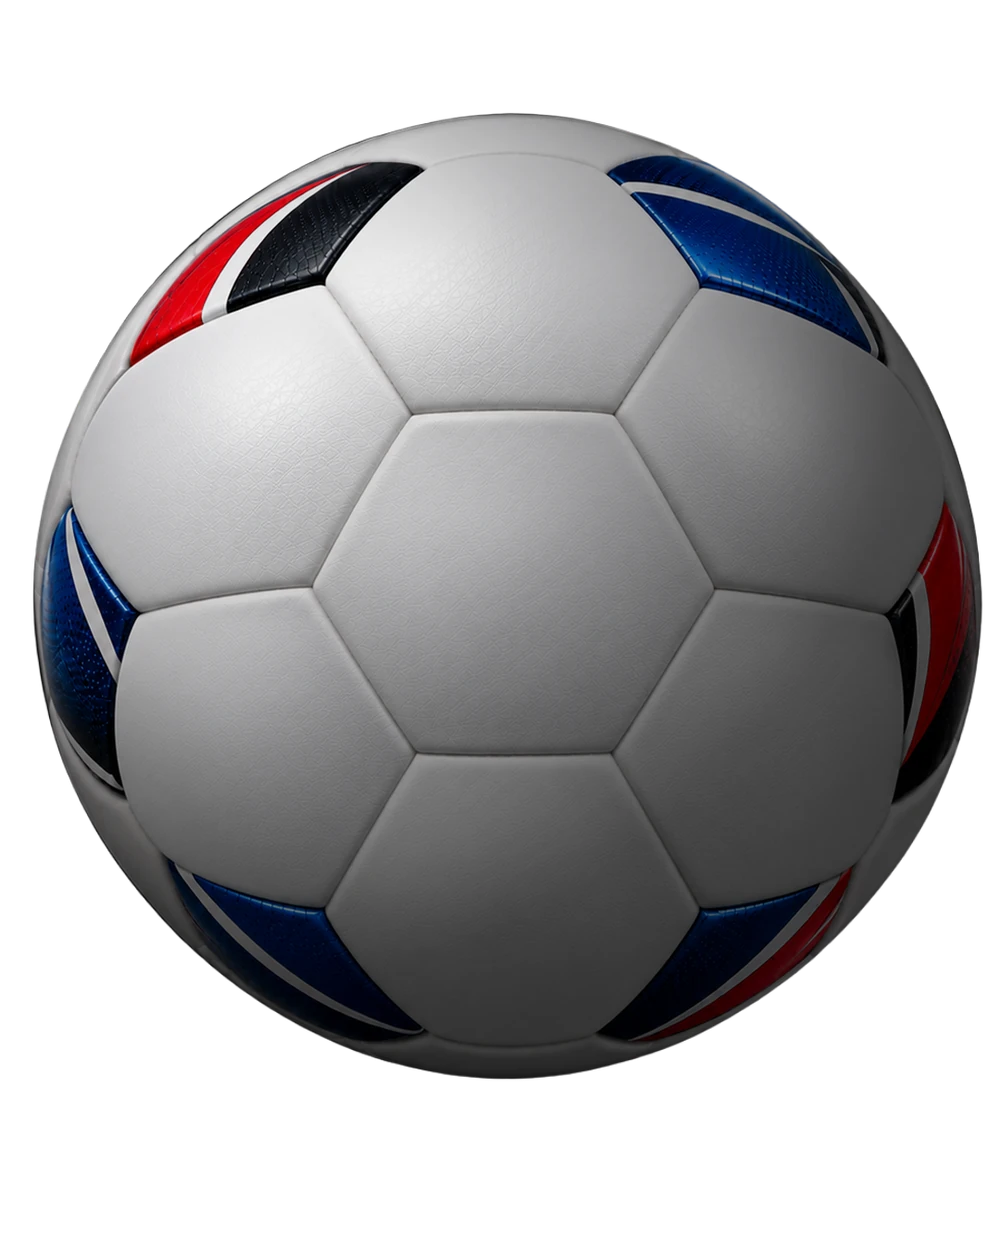
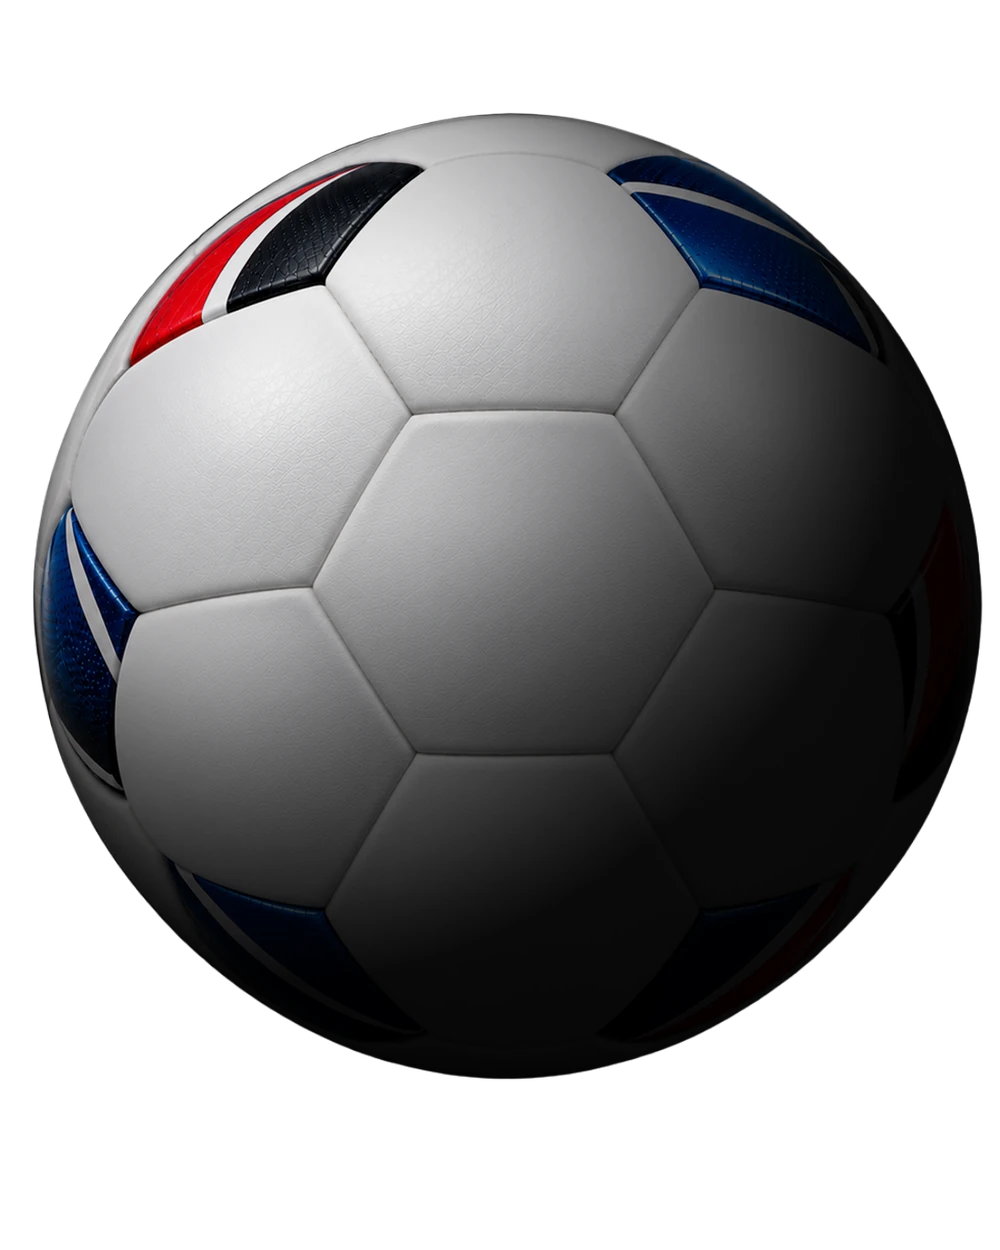
인트로: 예약하기 버튼 제거, 공은 J만 + 진한 명암
Claude-Session: https://claude.ai/code/session_017rSKLJUKrC3BC1iaB8TaZM

diff --git a/src/components/IntroHero.tsx b/src/components/IntroHero.tsx
@@ -9,19 +9,8 @@ import { useLocale, useTranslations } from "next-intl";
 import { Link, usePathname, useRouter } from "@/i18n/navigation";
 import ApplyModal from "./ApplyModal";
 
-const BOOKING_URL = "https://double-j-sports.vercel.app";
 const LOCALES = ["ko", "en", "de", "ja"] as const;
 const LANG_SHORT: Record<(typeof LOCALES)[number], string> = { ko: "KO", en: "EN", de: "DE", ja: "JA" };
-
-// 공 위 글씨(이미지에 박혀 있음)의 클릭 영역 위치 — 이미지를 바꾸면 이 좌표도 맞춰야 합니다.
-const BALL_LINKS = [
-  { key: "about", href: "/about", left: "50.2%", top: "30.6%" },
-  { key: "program", href: "/programs", left: "59.8%", top: "43.8%" },
-  { key: "gallery", href: "/gallery", left: "59.0%", top: "64.2%" },
-  { key: "location", href: "/locations", left: "50.1%", top: "74.5%" },
-  { key: "notice", href: "/notices", left: "41.1%", top: "63.9%" },
-  { key: "coach", href: "/coaches", left: "39.9%", top: "43.8%" },
-] as const;
 
 const SIDE_LINKS = [
   { key: "about", href: "/about" },
@@ -85,9 +74,6 @@ export default function IntroHero() {
                 {LANG_SHORT[code]}
               </button>
             ))}
-            <a href={BOOKING_URL} target="_blank" rel="noopener noreferrer">
-              {th("booking")}
-            </a>
           </div>
           <div className="intro-top">
             <img src="/images/intro/logo.webp" alt="Double J Sports" />
@@ -106,14 +92,6 @@ export default function IntroHero() {
             </div>
             <img className="intro-ball" src="/images/intro/ball.webp" alt="Double J Sports" draggable={false} />
             <img className="intro-ball intro-ball-lab" src="/images/intro/ball-labels.webp" alt="" draggable={false} />
-
-            <div className="intro-labels">
-              {BALL_LINKS.map((l) => (
-                <Link key={l.key} href={l.href} aria-label={th(`nav.${l.key}`)} style={{ left: l.left, top: l.top }}>
-                  {th(`nav.${l.key}`)}
-                </Link>
-              ))}
-            </div>
 
             <div className="intro-word intro-l">DOUBLE</div>
             <div className="intro-word intro-r">SPORTS</div>
